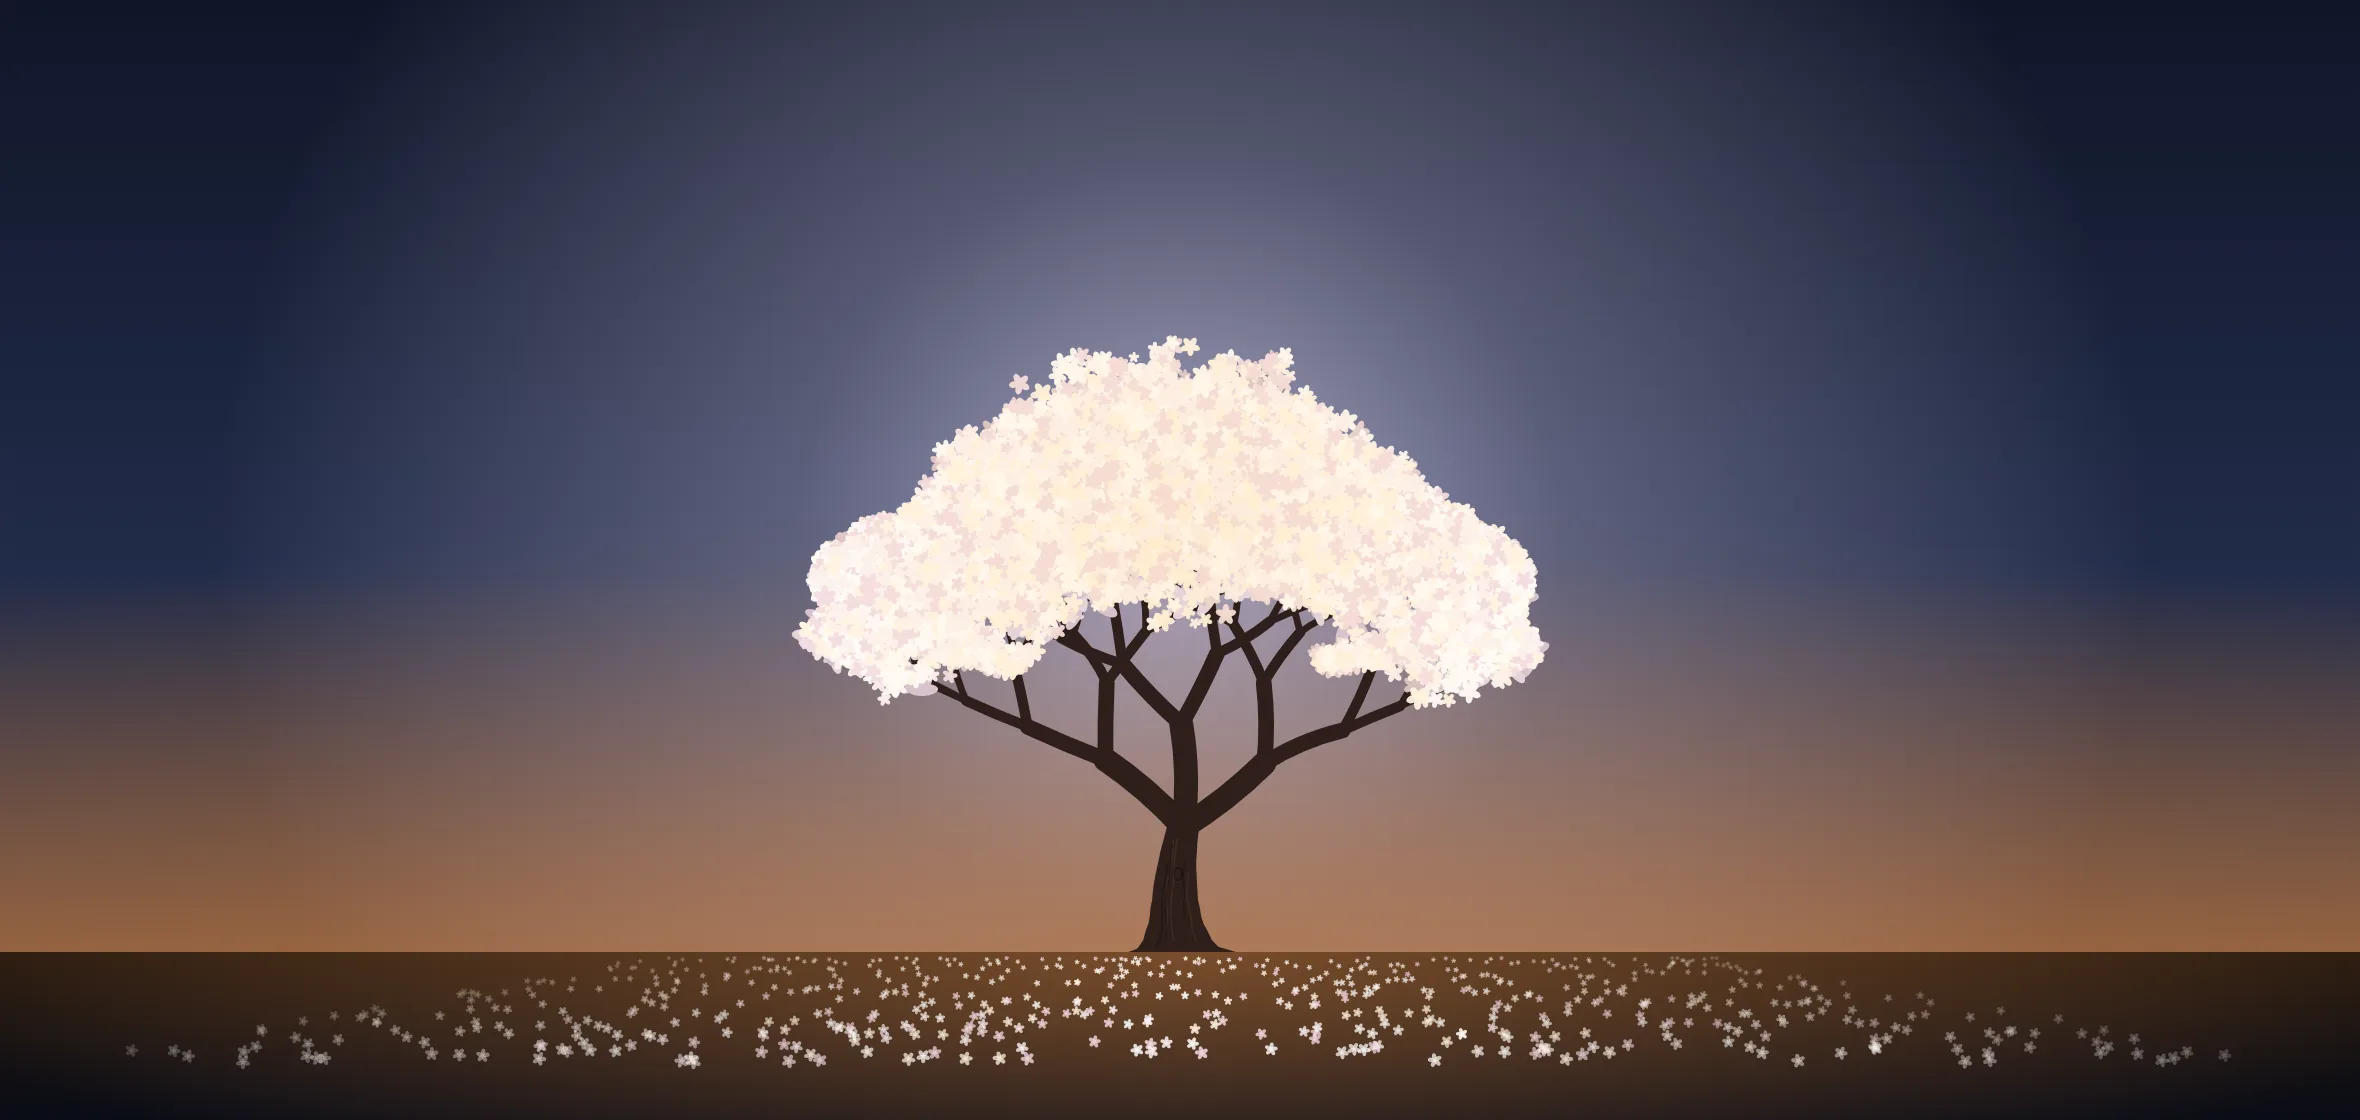
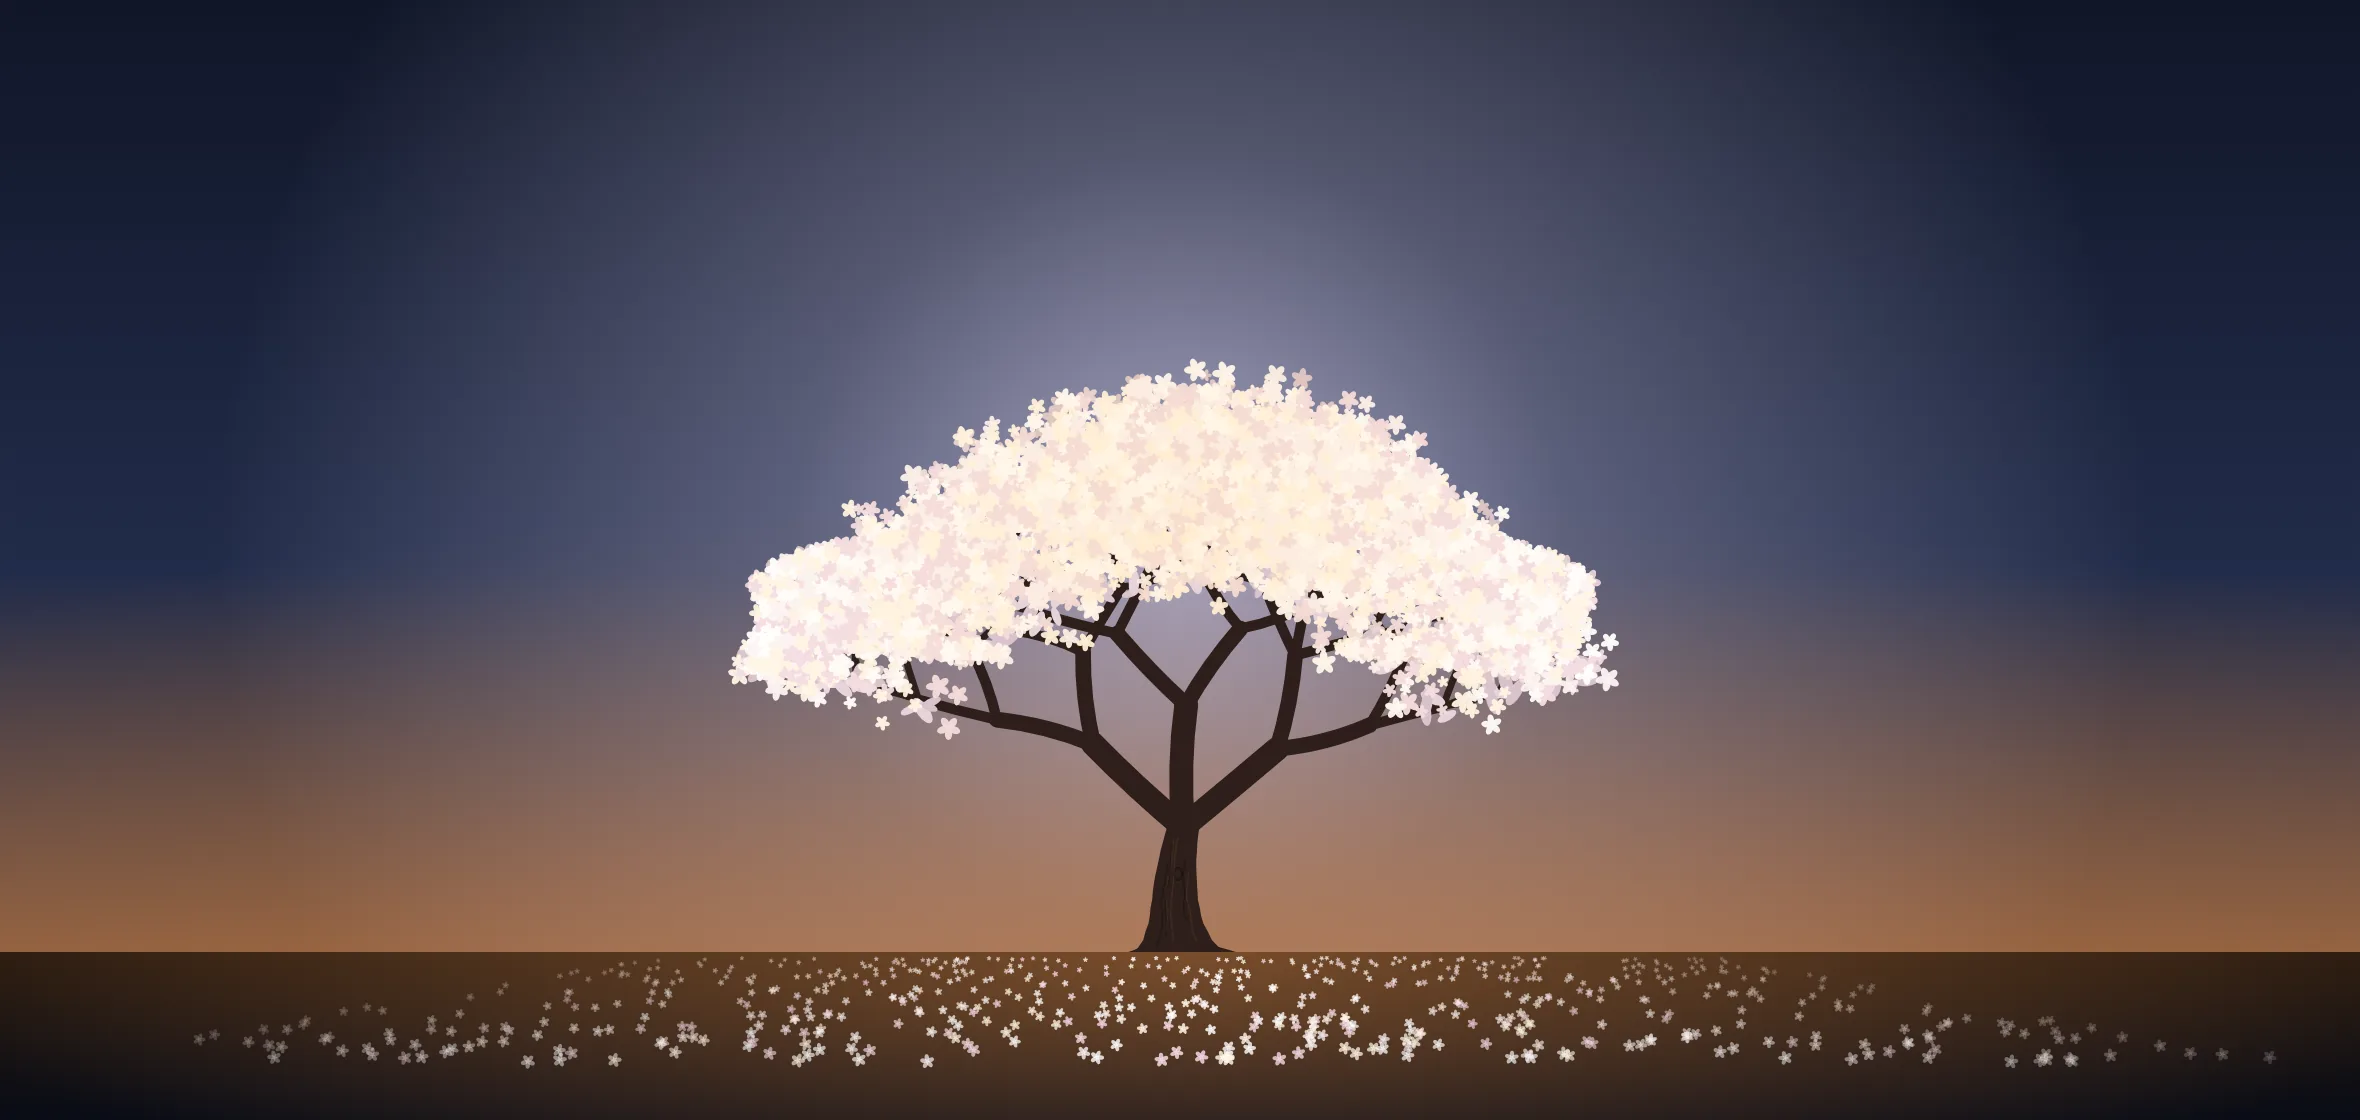
Árboles: todos con la arquitectura del flamboyán (copa ancha y horizontal), cada uno con sus colores y su densidad
Claude-Session: https://claude.ai/code/session_01Q7t98yhsy4681UtzsgGtic

Changed region(s): [[0.0928, 0.8438, 0.928, 0.9688], [0.3093, 0.2812, 0.6805, 0.6875], [0.4949, 0.6875, 0.5258, 0.7188]]

diff --git a/tools/tree-render.js b/tools/tree-render.js
@@ -36,11 +36,13 @@
   const FORMS = {
     // spread: apertura entre ramas · decay: acortamiento por nivel · depth: niveles
     // lift: cuánto tienden a subir · trunk: largo del tronco relativo · bloom: densidad de flores
-    lapacho: { spread: 0.72, decay: 0.77, depth: 7, lift: 0.4, trunk: 0.30, bloom: 9, petal: 1.05, wide: 0.88 },
-    jacaranda: { spread: 0.82, decay: 0.78, depth: 7, lift: 0.28, trunk: 0.26, bloom: 8, petal: 1, wide: 0.92 },
+    // Todos comparten la arquitectura del flamboyán (copa ancha y horizontal, tronco corto): la forma más natural.
+    // Cambian el color, la densidad, el tamaño de flor y si son flores u hojas, con un leve matiz en la apertura.
+    lapacho: { spread: 0.95, decay: 0.79, depth: 6, lift: 0.18, trunk: 0.22, bloom: 10, petal: 1.12, flat: true },
+    jacaranda: { spread: 0.96, decay: 0.79, depth: 6, lift: 0.18, trunk: 0.22, bloom: 10, petal: 1.1, flat: true },
     flamboyan: { spread: 0.95, decay: 0.79, depth: 6, lift: 0.18, trunk: 0.22, bloom: 8, petal: 1.05, flat: true },
-    leafy: { spread: 0.74, decay: 0.77, depth: 7, lift: 0.4, trunk: 0.28, bloom: 10, petal: 1.25, leaf: true, wide: 0.86 },
-    silhouette: { spread: 0.76, decay: 0.77, depth: 7, lift: 0.38, trunk: 0.28, bloom: 10, petal: 1.3, leaf: true, wide: 0.9 },
+    leafy: { spread: 0.95, decay: 0.79, depth: 6, lift: 0.18, trunk: 0.22, bloom: 11, petal: 1.3, leaf: true, flat: true },
+    silhouette: { spread: 0.95, decay: 0.79, depth: 6, lift: 0.18, trunk: 0.22, bloom: 11, petal: 1.3, leaf: true, flat: true },
   };
 
   function rng(seed) {

diff --git a/public/sw.js b/public/sw.js
@@ -1,7 +1,7 @@
 // Service worker: guarda la app para abrirla sin conexión.
 // Red primero (así siempre ves la última versión publicada), caché si no hay red.
 // Nunca se guarda /api/: el contenido y los registros viajan con la clave y se guardan en la app.
-const CACHE = 'sunset-v48';
+const CACHE = 'sunset-v49';
 const SHELL = [
   './',
   'index.html',
